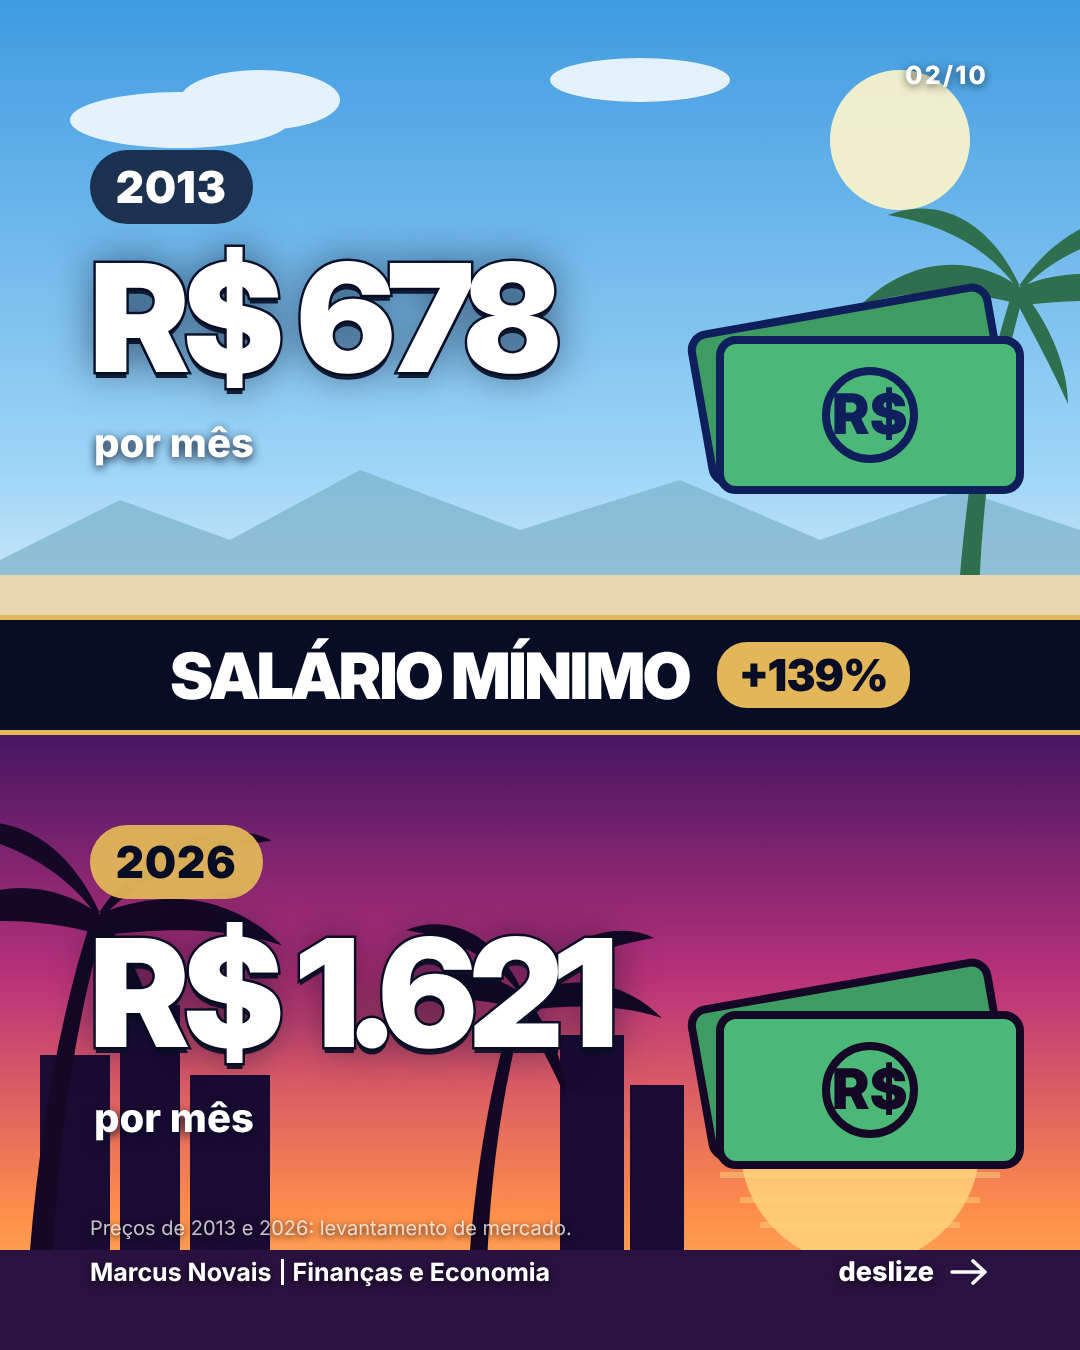
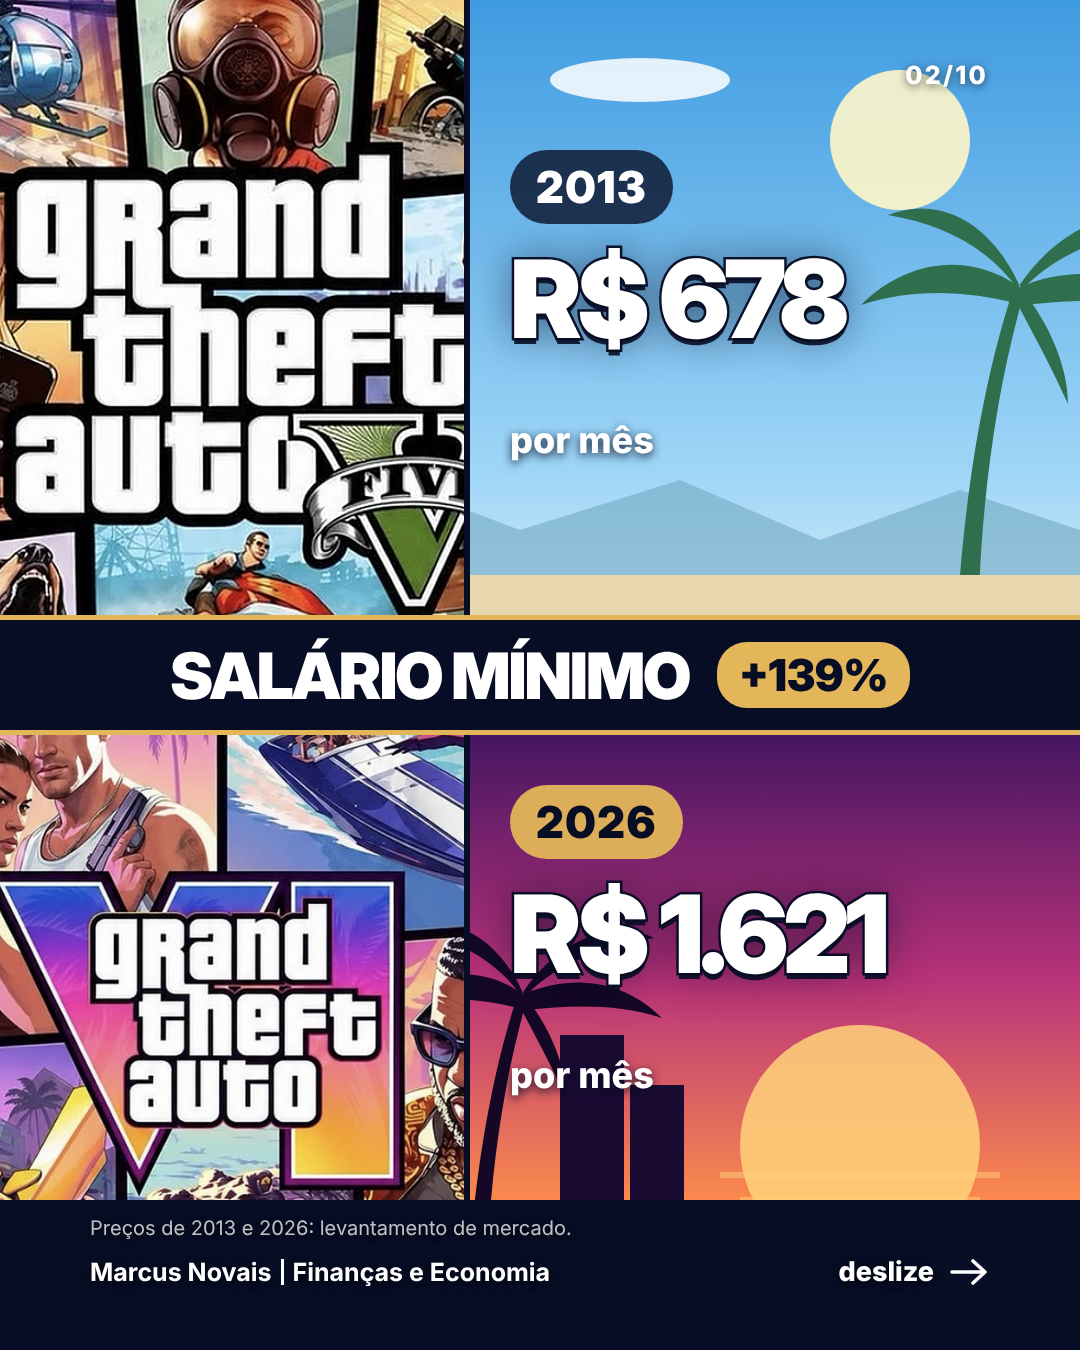
Carrossel GTA: capas do GTA V e GTA VI nos slides de comparação e na capa
Claude-Session: https://claude.ai/code/session_01JkBXj6tz5hpSkGAznkwYEm

diff --git a/carrossel-gta-13-anos/slides.html b/carrossel-gta-13-anos/slides.html
@@ -23,6 +23,15 @@
   .half .sub { position:absolute; left:94px; max-width:520px; line-height:1.15; font-weight:800; font-size:40px; text-shadow:0 3px 10px rgba(7,13,36,.9); }
   .half.top .sub { top:420px; }
   .half.bot .sub { top:420px; }
+  .half .cov { position:absolute; left:0; top:0; bottom:0; width:470px; z-index:2; border-right:6px solid #070d24; }
+  .half .cov img { width:100%; height:100%; object-fit:cover; object-position:30% 40%; display:block; }
+  .half.cmp2 .yr, .half.cmp2 .val, .half.cmp2 .sub { left:510px; }
+  .half.cmp2 .val { font-size:108px; }
+  .half.cmp2 .sub { max-width:520px; font-size:36px; }
+  .half.cmp2 .yr { z-index:3; }
+  .half.bot.cmp2 .cov { bottom:150px; }
+  .half.bot.cmp2::after { content:''; position:absolute; left:0; right:0; bottom:0; height:150px; background:#070d24; z-index:2; }
+  .half.bot.cmp2 .val, .half.bot.cmp2 .sub, .half.bot.cmp2 .yr { transform:translateY(-40px); }
   .band { position:absolute; left:0; right:0; top:615px; height:120px; background:var(--ink); display:flex; align-items:center; justify-content:center; gap:28px; border-top:5px solid var(--gold); border-bottom:5px solid var(--gold); z-index:4; }
   .band h2 { font-family:"Inter Display","Inter",sans-serif; font-weight:900; text-transform:uppercase; font-size:64px; letter-spacing:-.03em; }
   .band .chg { font-family:"Inter Display","Inter",sans-serif; font-weight:900; font-size:44px; color:var(--ink); background:var(--gold); padding:6px 22px; border-radius:30px; }
@@ -95,12 +104,12 @@ const CMP=[
  {t:'Dólar', ico:'dollar', a:'R$ 2,26', b:'R$ 5,79', sa:'17/09/2013, dia do lançamento do GTA V', sb:'17/11/2026, fechamento de ontem', chg:'+156%'}
 ];
 const slides=[];
-slides.push(`<div class="half top">${scene(false)}</div><div class="half bot">${scene(true)}</div>
+slides.push(`<div class="half top"><div class="cov" style="width:100%"><img src="img/gta5.jpg" style="object-position:50% 45%"></div></div><div class="half bot"><div class="cov" style="width:100%"><img src="img/gta6.jpg" style="object-position:50% 40%"></div></div>
   <div class="shade" style="background:linear-gradient(180deg, rgba(7,13,36,.15) 0%, rgba(7,13,36,.35) 40%, rgba(7,13,36,.9) 62%, rgba(7,13,36,.96) 100%)"></div>
   <div class="full"><div class="pill">2013 → 2026</div><h1>13 anos depois, <em>um novo GTA.</em></h1>
   <p>O GTA VI chega <b>amanhã</b>. Veja o que mudou no seu bolso desde o lançamento do GTA V.</p></div>`);
-CMP.forEach(c=>slides.push(`<div class="half top">${scene(false,c.ico)}<div class="yr">2013</div><div class="val">${c.a}</div><div class="sub">${c.sa}</div></div>
-  <div class="half bot">${scene(true,c.ico)}<div class="yr" style="background:rgba(227,182,90,.95); color:#070d24">2026</div><div class="val">${c.b}</div><div class="sub">${c.sb}</div></div>
+CMP.forEach(c=>slides.push(`<div class="half top cmp2">${scene(false)}<div class="cov"><img src="img/gta5.jpg"></div><div class="yr">2013</div><div class="val">${c.a}</div><div class="sub">${c.sa}</div></div>
+  <div class="half bot cmp2">${scene(true)}<div class="cov"><img src="img/gta6.jpg"></div><div class="yr" style="background:rgba(227,182,90,.95); color:#070d24">2026</div><div class="val">${c.b}</div><div class="sub">${c.sb}</div></div>
   <div class="band"><h2>${c.t}</h2><span class="chg">${c.chg}</span></div>`));
 slides.push(`<div class="half top">${scene(false,'chart')}</div><div class="half bot">${scene(true,'dollar')}</div>
   <div class="shade" style="background:rgba(7,13,36,.86)"></div>

diff --git a/carrossel-gta-13-anos/roteiro.md b/carrossel-gta-13-anos/roteiro.md
@@ -1,6 +1,6 @@
 # Carrossel: "13 anos depois, um novo GTA"
 
-10 slides em 1080x1350. Cenários ilustrados (dia em 2013, pôr do sol em 2026), sem arte oficial do jogo.
+10 slides em 1080x1350. Capas do GTA V e do GTA VI à esquerda (recortadas do post de referência, sem os anos), cenários ilustrados com os valores à direita.
 
 | # | Tema | 2013 | 2026 |
 |---|---|---|---|
